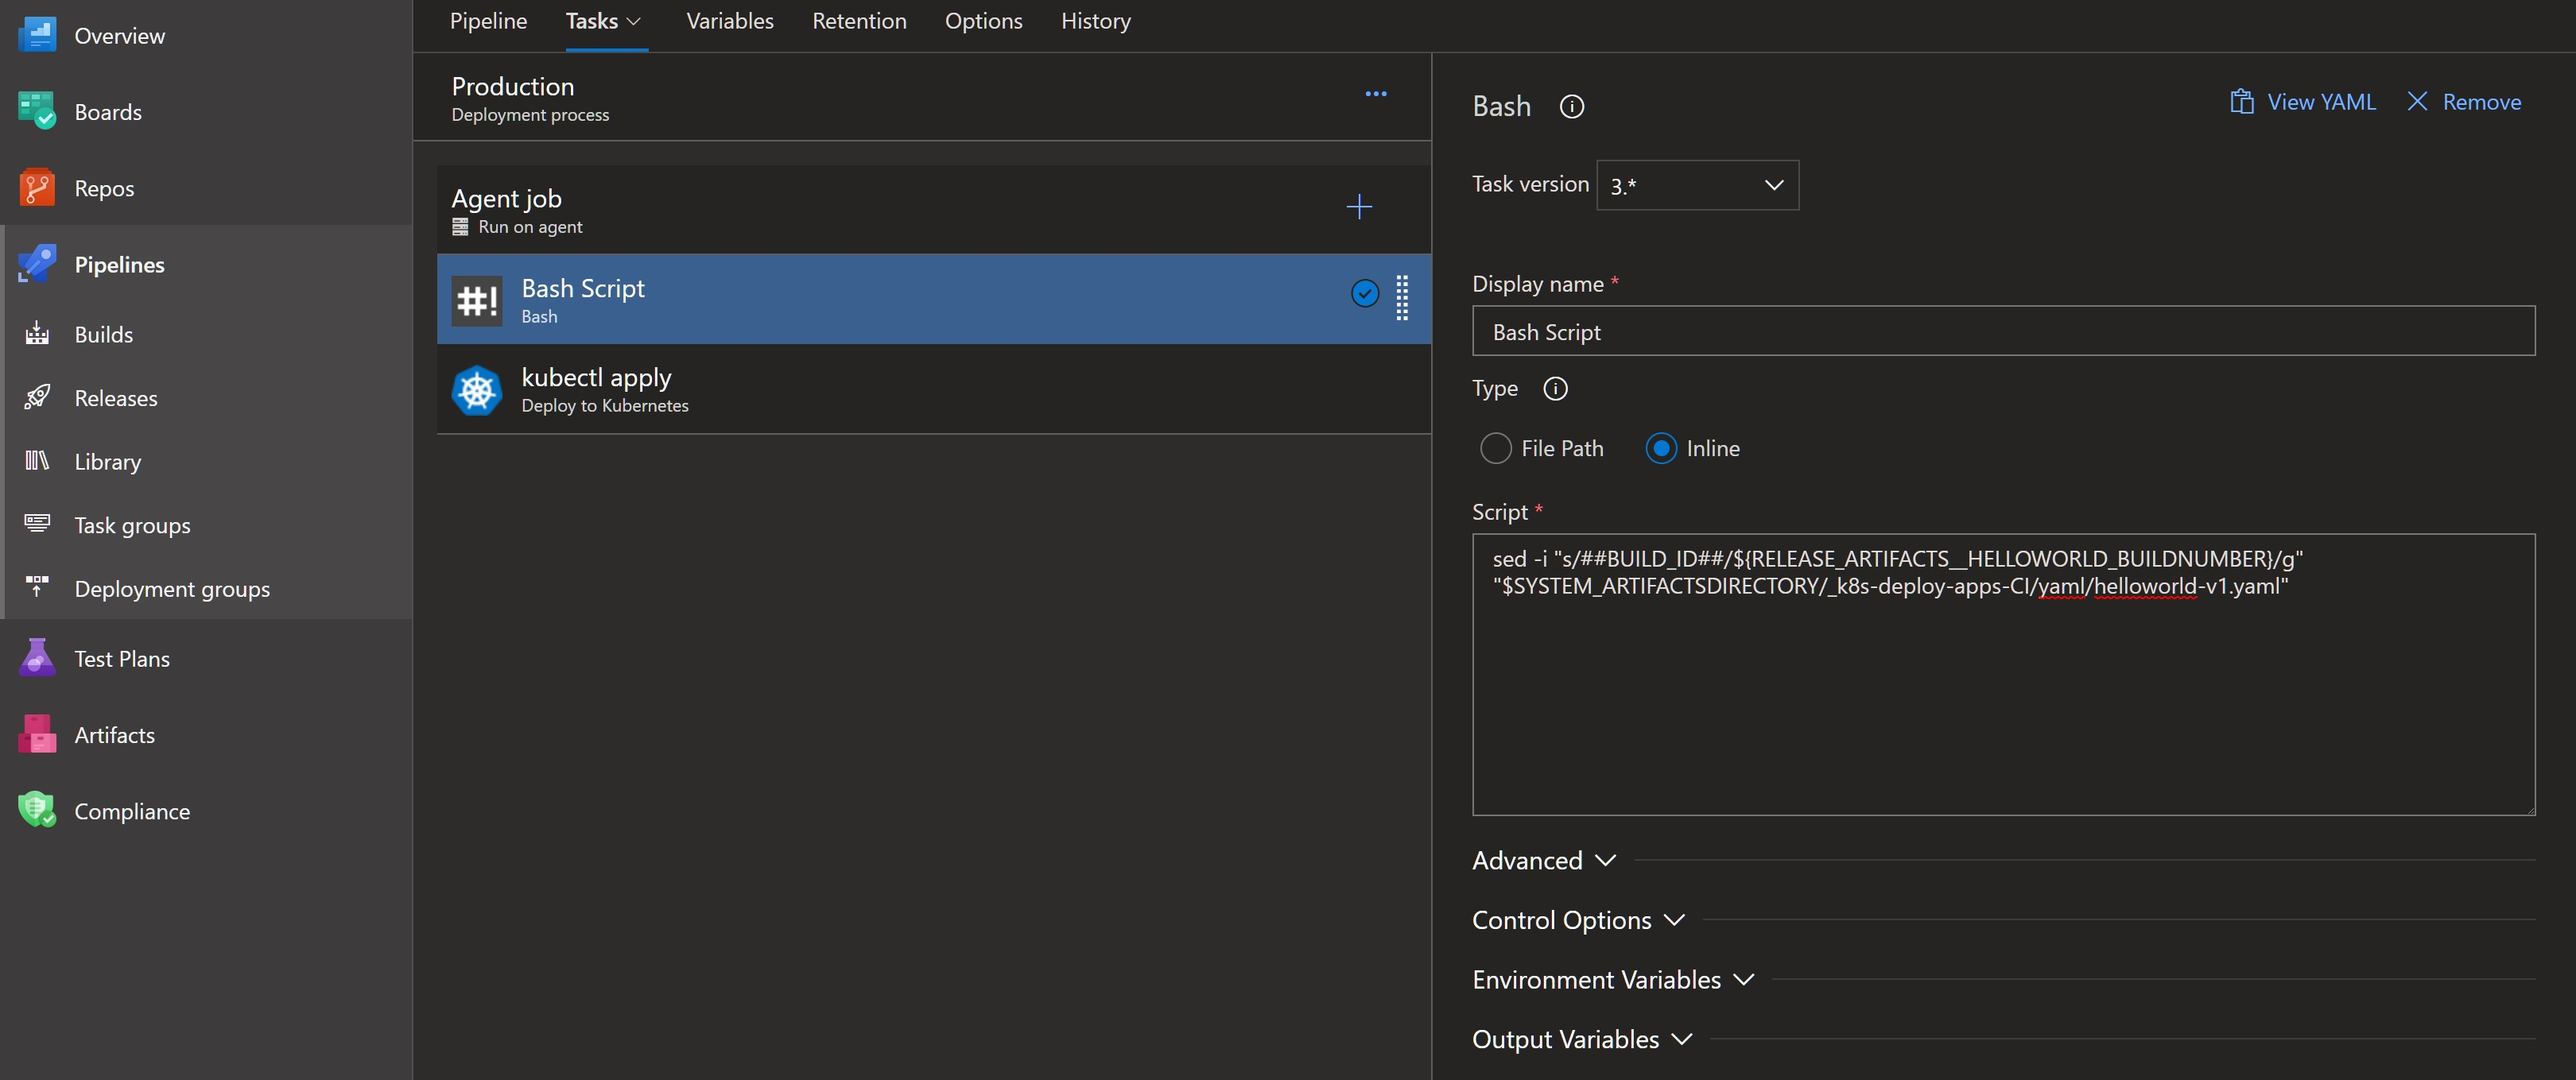
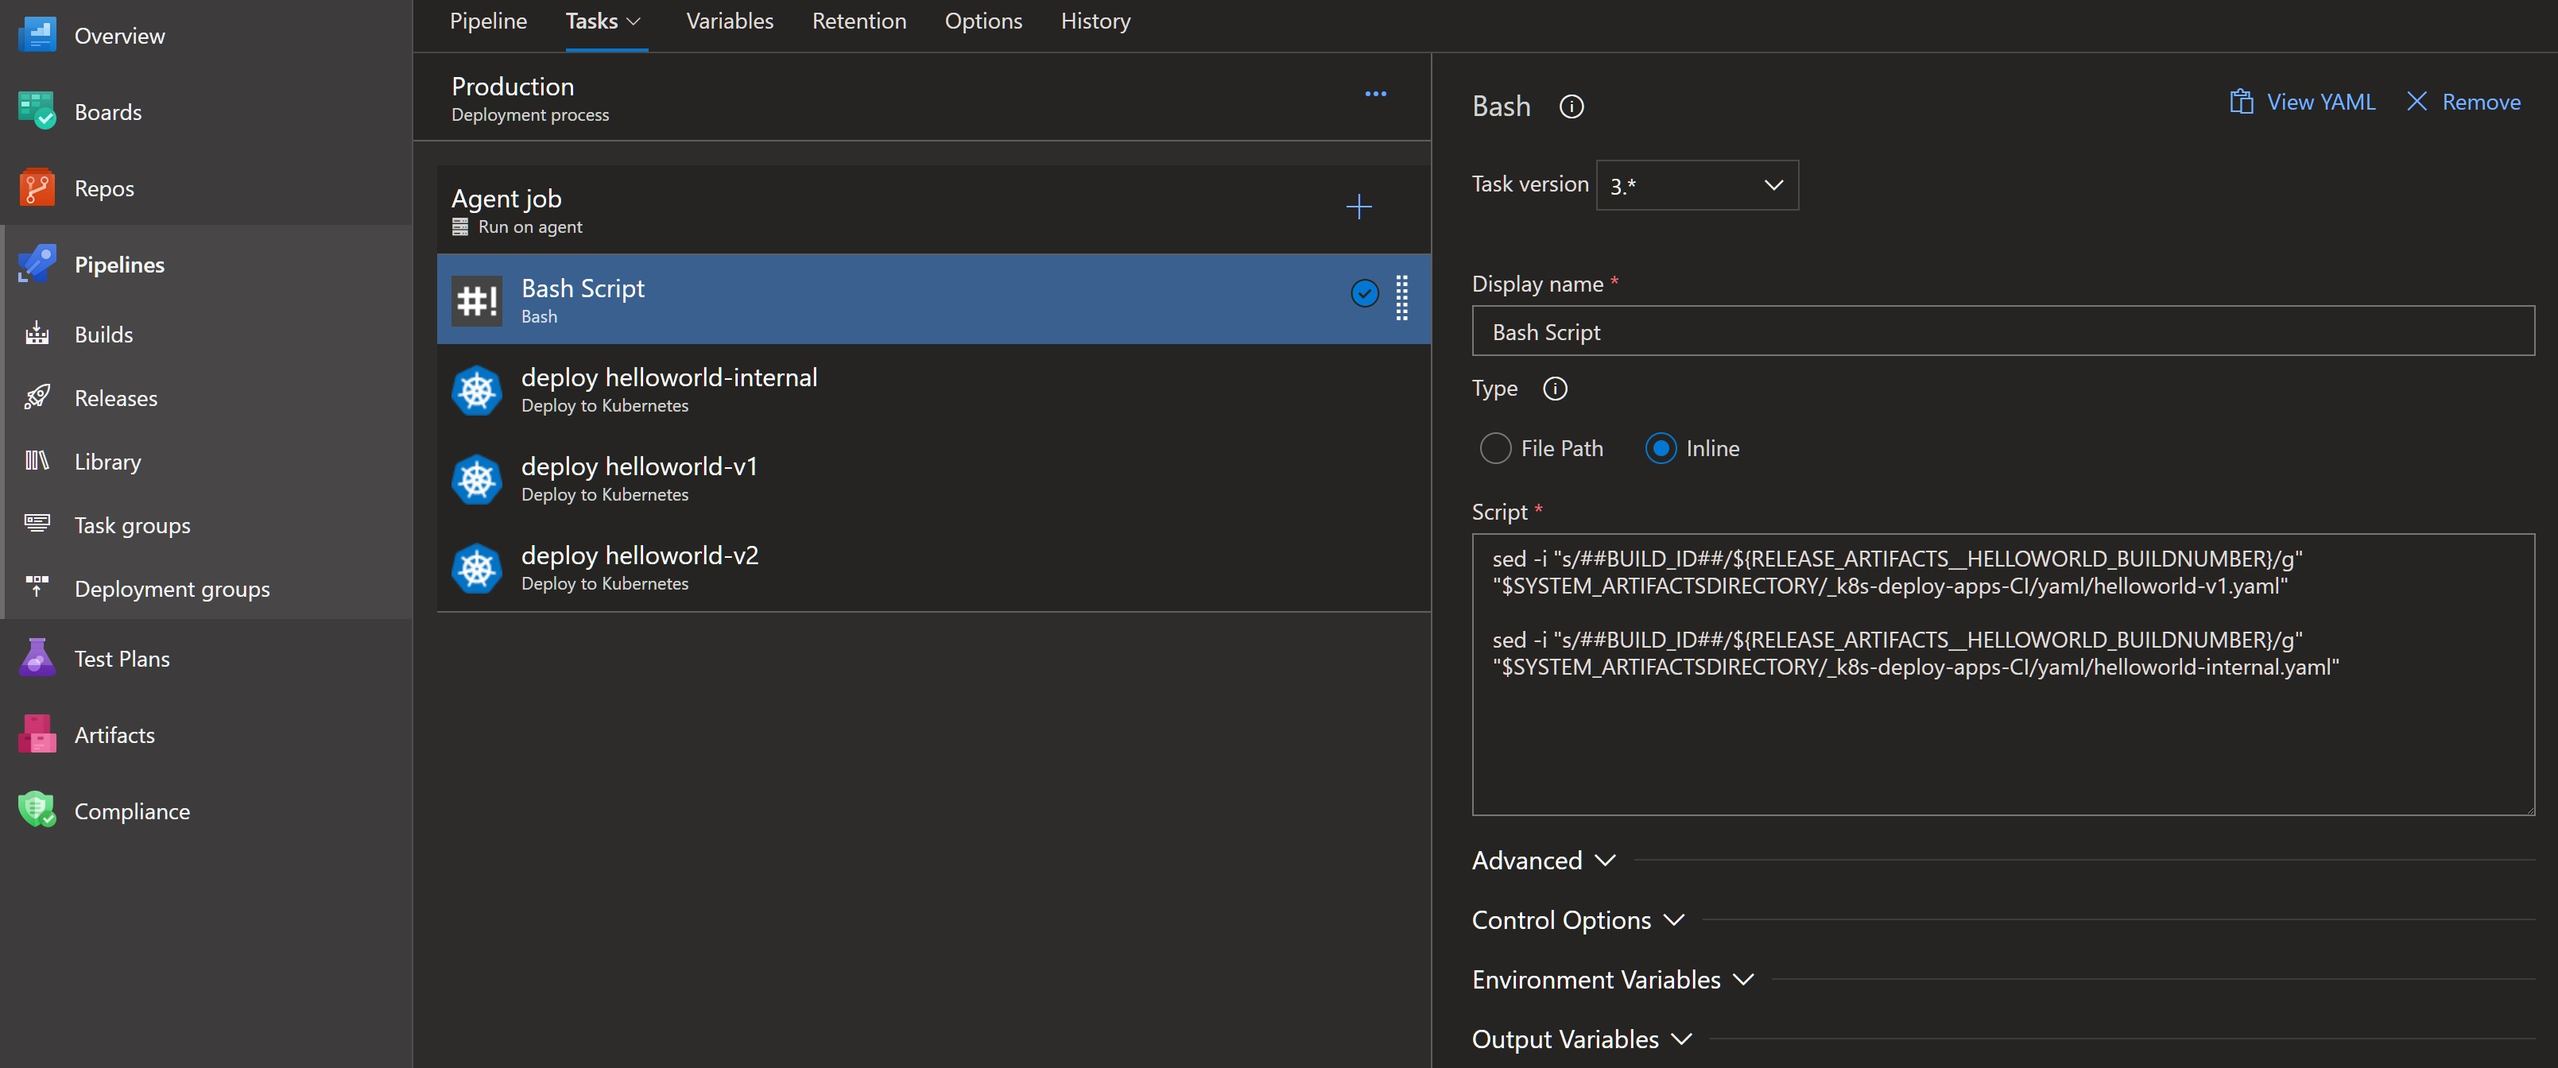
misc updates

diff --git a/server.js b/server.js
@@ -12,5 +12,6 @@ app.get('/', (req, res) => {
   res.send('Hello World-v2!!\n');
 });
 app.get('/favicon.ico', (req, res) => res.status(204));
+
 app.listen(PORT, HOST);
 console.log(`Running on http://${HOST}:${PORT}`);

diff --git a/devops-cd.md b/devops-cd.md
@@ -1,17 +1,23 @@
 # Continous Deployment with Azure DevOps
 
+- Visit https://dev.azure.com and continue with same project you created earlier for CI.
 - Create a new Azure DevOps Repo, for example k8s-deploy-apps to hold the the YAML configuration for Kubernetes
 
 ![](images/11-newrepo.jpg)
 
-- In the new repository, create a folder yaml and add all helloworld and aci YAMLs, provided with repo you cloned earlier.
+- Edit all files under yaml directory in locally cloned repo and modify:\
+    **<yourACRRegistry.azurecr.io>** with your repo url and \
+    **\<k8sSecretName>** with your secret created earlier
+- Edit helloworld-v2.yaml again and change \
+    **##BUILD_ID##** with the version you noted earlier in CI steps.
+- In the new repository, create a folder yaml and add all YAMLs you modified in previous step to it.
 - You must mention file name while creating folder e.g. test.yaml but you can delete it once you upload other YAMLs.
 
 ![](images/12-newfolder.jpg)
 
-**Create artifacts build pipeline for the Kubernetes config files**
-
 - Upload azure-pipelines.yaml and store it in root directory. Then create a new build pipeline
+
+**Create artifacts build pipeline for the Kubernetes config files**
 
 ![](images/19-build.jpg)
 
@@ -50,14 +56,19 @@
 
     sed -i "s/##BUILD_ID##/${RELEASE_ARTIFACTS__HELLOWORLD_BUILDNUMBER}/g" "$SYSTEM_ARTIFACTSDIRECTORY/_k8s-deploy-apps-CI/yaml/helloworld-v1.yaml"
 
+    sed -i "s/##BUILD_ID##/${RELEASE_ARTIFACTS__HELLOWORLD_BUILDNUMBER}/g" "$SYSTEM_ARTIFACTSDIRECTORY/_k8s-deploy-apps-CI/yaml/helloworld-internal.yaml"
+
 - Add a Deploy to Kubernetes task. Configure access to your AKS cluster using the service connection created earlier.
 
-- Scroll down and check Use configuration files and use the following value $(System.DefaultWorkingDirectory)/_azch-captureorder-kubernetes-CI/yaml/captureorder-deployment.yaml or select it from the browse button.
+- Scroll down and check Use configuration files and browse file path.
+> Filled value will look similar to this: $(System.DefaultWorkingDirectory)/_k8s-deploy-apps-CI/yaml/helloworld-internal.yaml
 
  ![](images/20-task2.jpg)
 
-  ![](images/20-task3.jpg)
+ ![](images/20-task3.jpg)
 
-> **Hint:** Do the same for all other YAMLs. You can right click on the Kubernetes task and clone it.
+> **Hint:** Do the same for all other YAMLs. You can right click on the Kubernetes task and clone it. Select appropriate file for every cloned task.
+
+ ![](images/20-task4.jpg)
 
 - Create a manual release and pick the latest build as the source. Verify the release runs and that the captureorder service is deployed

diff --git a/README.md b/README.md
@@ -1,4 +1,10 @@
-# Using Azure DevOps to create & publish docker images
-- Build a Docker image to deploy, run, or push to a container registry.
-- Add steps that use Docker Compose, tag images, push to a registry, run an image, and more:
-- https://docs.microsoft.com/azure/devops/pipelines/languages/docker
+# CI/ CD with Azure DevOps
+
+## Using Azure DevOps to create & publish docker images
+- Build a Docker image and push to Azure container registry.
+
+## Using Azure DevOps to deploy images
+- Build artifacts from config files
+- Trigger a deployment everytime there is a new image in Azure container registry or at any config file changes.
+
+> https://docs.microsoft.com/azure/devops/pipelines/languages/docker

diff --git a/devops-ci.md b/devops-ci.md
@@ -37,6 +37,8 @@
 
 ![](images/10-repos.jpg)
 
+- Note down the version/ tag number of the image pushed. We will use this version later in CD pipeline for deploying helloworld-v2
+
 - Modify following line in server.js and commit\
         res.send('Hello World-v2!!\n');\
         to\
